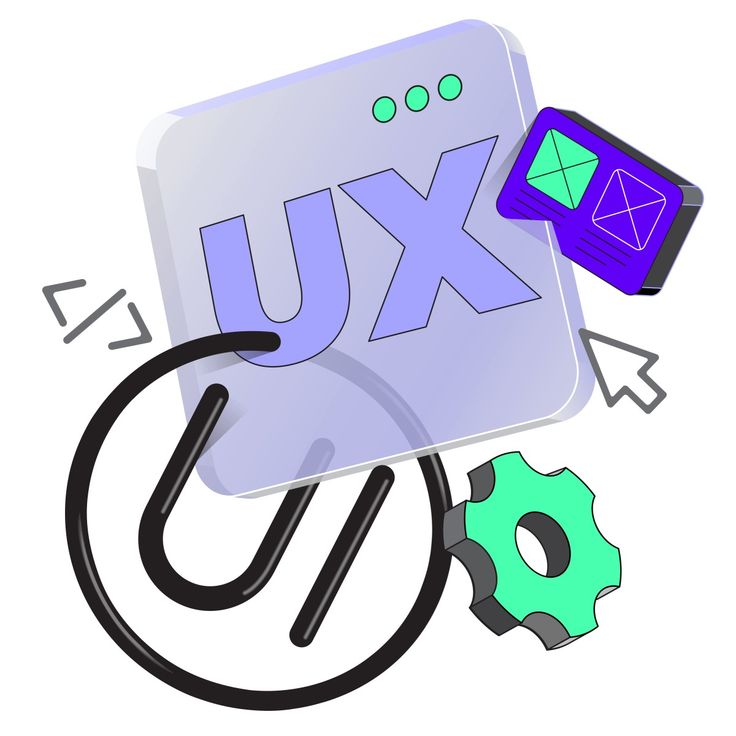
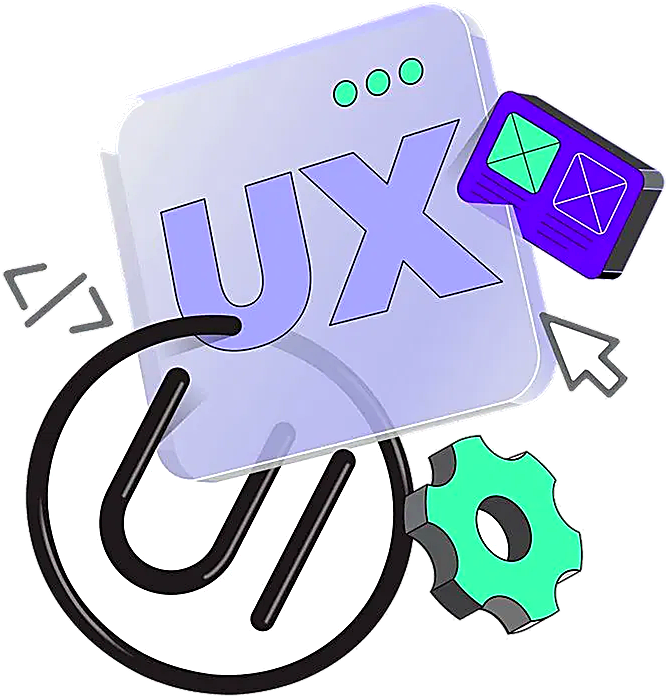
modefek
sistemdesignkrg

diff --git a/src/app/quiz/page.js b/src/app/quiz/page.js
@@ -1,6 +1,7 @@
 "use client";
 
 import React, { useState, useEffect, useRef, useCallback } from "react";
+import Image from "next/image";
 import Header from "../../components/Header";
 import Footer from "../../components/Footer";
 import PixelButton from "../../components/PixelButton";
@@ -11,11 +12,15 @@ import Link from "next/link";
 // Latar utama luar game (di belakang seluruh halaman/console GameBoy)
 const OUTER_BG = "/kuis/bg1.jpg";
 
+// Efek elemen serangan: Air (hero, kebaikan) vs Api (boss, kejahatan)
+const EFFECT_WATER = "/efek/air.gif"; // dipakai saat hero menyerang boss
+const EFFECT_FIRE = "/efek/api.gif"; // dipakai saat boss menyerang balik hero
+
 const STAGES = [
     {
         id: "design",
         name: "FIGMA FOREST",
-        icon: "🌳",
+        iconImg: "/kuis/uiux.png", // Logo UI/UX piksel asli menggantikan pohon 🌳
         bossName: "BAD UX GOBLIN",
         bossSprite: "👾",
         bgGif: "/kuis/bg2.jpg",
@@ -29,7 +34,7 @@ const STAGES = [
     {
         id: "frontend",
         name: "FRONTEND VALLEY",
-        icon: "💻",
+        iconImg: "/kuis/2.png", // Logo Frontend piksel asli menggantikan 💻
         bossName: "SYNTAX BUG DRAGON",
         bossSprite: "🐉",
         bgGif: "/kuis/bg3.jpg",
@@ -43,7 +48,7 @@ const STAGES = [
     {
         id: "backend",
         name: "BACKEND CASTLE",
-        icon: "🏰",
+        iconImg: "/kuis/3.png", // Logo Backend piksel asli menggantikan 🏰
         bossName: "SQL INJECTION DEMON",
         bossSprite: "👹",
         bgGif: "/kuis/bg4.jpg",
@@ -130,6 +135,7 @@ export default function GameBoyAdventureQuiz() {
     const getHeroLevel = (u) => (u?.skills?.length || 0) + (u?.semester || 1);
     const heroLevel = getHeroLevel(hero);
 
+    // Progress panggung murni turunan dari bossHp (single source of
     // truth), jadi tidak ada lagi 2 kondisi menang yang bisa saling tabrakan.
     const stageProgress = 100 - bossHp;
 
@@ -180,7 +186,7 @@ export default function GameBoyAdventureQuiz() {
         if (isCorrect) {
             sfx.playPowerUp();
             const damage = Math.ceil(100 / activeStage.questions.length);
-            setDialogueText(`💥 CRITICAL HIT! ${hero.name} dealt -${damage} DMG to ${activeStage.bossName}!`);
+            setDialogueText(`💧 SPLASH HIT! ${hero.name} doused ${activeStage.bossName} for -${damage} DMG!`);
 
             setTimeout(() => {
                 setIsPlayerAttacking(true);
@@ -229,7 +235,7 @@ export default function GameBoyAdventureQuiz() {
         } else {
             sfx.playPowerDown();
             const damage = 30;
-            setDialogueText(`🚨 MISSED! ${activeStage.bossName} dealt -${damage} DMG to ${hero.name}!`);
+            setDialogueText(`🔥 SCORCHED! ${activeStage.bossName} burned ${hero.name} for -${damage} DMG!`);
 
             setTimeout(() => {
                 setIsBossAttacking(true);
@@ -303,8 +309,17 @@ export default function GameBoyAdventureQuiz() {
         }
         .animate-sprite-pulse { animation: spritePulse 2.2s ease-in-out infinite; }
 
+        /* Efek elemen (air/api) "pop" masuk lalu menghilang, disinkron dengan
+           durasi lunge serangan (~500ms sebelum HP berkurang) */
+        @keyframes effectPop {
+          0% { transform: scale(0.3) rotate(-8deg); opacity: 0; }
+          35% { transform: scale(1.2) rotate(4deg); opacity: 1; }
+          100% { transform: scale(1) rotate(0deg); opacity: 0; }
+        }
+        .animate-effect-pop { animation: effectPop 0.55s ease-out forwards; }
+
         @media (prefers-reduced-motion: reduce) {
-          .animate-screen-shake, .animate-hp-flash, .animate-sprite-pulse {
+          .animate-screen-shake, .animate-hp-flash, .animate-sprite-pulse, .animate-effect-pop {
             animation: none !important;
           }
         }
@@ -419,7 +434,16 @@ export default function GameBoyAdventureQuiz() {
                                                 onClick={() => startStage(stg)}
                                                 className="bg-[#121b2d]/90 border-2 border-retro-black hover:border-yellow-400 p-4 rounded flex flex-col items-center gap-2 cursor-pointer transition-transform hover:-translate-y-1 shadow-md text-left"
                                             >
-                                                <span className="text-3xl animate-sprite-pulse">{stg.icon}</span>
+                                                {/* Logo tech piksel asli menggantikan emoji pohon/laptop/kastil */}
+                                                <div className="w-14 h-14 relative my-1 animate-sprite-pulse">
+                                                    <Image
+                                                        src={stg.iconImg}
+                                                        alt={stg.name}
+                                                        fill
+                                                        unoptimized
+                                                        className="object-contain drop-shadow-[2px_2px_0px_rgba(0,0,0,0.8)]"
+                                                    />
+                                                </div>
                                                 <span className="font-pixel text-[9px] text-yellow-300 font-bold text-center">{stg.name}</span>
                                                 <span className="font-sans text-[10px] text-gray-300 text-center">Boss: {stg.bossName}</span>
                                             </button>
@@ -436,7 +460,7 @@ export default function GameBoyAdventureQuiz() {
                                 </div>
                             )}
 
-                            {/* STAGE 3: PERTARUNGAN */}
+                            {/* STAGE 3: PERTARUNGAN — Air (hero) vs Api (boss jahat) */}
                             {gameState === "PLAYING_STAGE" && activeStage && (
                                 <div className="relative z-10 h-full flex flex-col justify-between">
 
@@ -451,28 +475,58 @@ export default function GameBoyAdventureQuiz() {
 
                                     {/* Visual Karakter Berjalan di Atas Rumput */}
                                     <div className="flex justify-between items-end px-6 sm:px-12 py-4">
-                                        {/* Hero Sprite */}
+                                        {/* Hero Sprite — kena efek Api (🔥) saat diserang boss */}
                                         <div className={`relative flex flex-col items-center transition-transform ${isPlayerAttacking ? "translate-x-10 scale-110" : "animate-sprite-pulse"}`}>
                                             <div className="w-16 h-16 relative drop-shadow-[2px_4px_0px_rgba(0,0,0,0.8)]">
                                                 <PixelAvatar role={hero.role} size="w-full h-full" />
+
+                                                {/* Angka damage melayang di atas hero */}
                                                 {floatingTexts.filter((f) => f.target === "player").map((f) => (
-                                                    <span key={f.id} className="absolute -top-2 left-1/2 -translate-x-1/2 font-pixel text-[10px] text-red-400 animate-float-damage pointer-events-none">
+                                                    <span key={f.id} className="absolute -top-2 left-1/2 -translate-x-1/2 font-pixel text-[10px] text-red-400 animate-float-damage pointer-events-none z-20">
                                                         {f.text}
                                                     </span>
                                                 ))}
+
+                                                {/* Efek Api 🔥 menerjang hero saat boss menyerang */}
+                                                {isBossAttacking && (
+                                                    <div className="absolute -inset-3 animate-effect-pop pointer-events-none z-10">
+                                                        <Image
+                                                            src={EFFECT_FIRE}
+                                                            alt="Fire attack effect"
+                                                            fill
+                                                            unoptimized
+                                                            className="object-contain"
+                                                        />
+                                                    </div>
+                                                )}
                                             </div>
                                             <span className="font-pixel text-[7px] bg-pixel-green text-retro-black px-1 font-bold">{hero.name}</span>
                                         </div>
 
-                                        {/* Boss Sprite */}
+                                        {/* Boss Sprite — kena efek Air (💧) saat hero menyerang */}
                                         <div className={`relative flex flex-col items-center transition-transform ${isBossAttacking ? "-translate-x-10 animate-screen-shake" : "animate-sprite-pulse"}`}>
-                                            <span className="text-5xl drop-shadow-[2px_4px_0px_rgba(0,0,0,0.8)] relative">
+                                            <span className="text-5xl drop-shadow-[2px_4px_0px_rgba(0,0,0,0.8)] relative inline-block w-16 h-16 leading-[4rem] text-center">
                                                 {activeStage.bossSprite}
+
+                                                {/* Angka damage melayang di atas boss */}
                                                 {floatingTexts.filter((f) => f.target === "boss").map((f) => (
-                                                    <span key={f.id} className="absolute -top-3 left-1/2 -translate-x-1/2 font-pixel text-[11px] text-yellow-300 animate-float-damage pointer-events-none">
+                                                    <span key={f.id} className="absolute -top-3 left-1/2 -translate-x-1/2 font-pixel text-[11px] text-yellow-300 animate-float-damage pointer-events-none z-20">
                                                         {f.text}
                                                     </span>
                                                 ))}
+
+                                                {/* Efek Air 💧 menerjang boss saat hero menyerang */}
+                                                {isPlayerAttacking && (
+                                                    <span className="absolute -inset-3 animate-effect-pop pointer-events-none z-10 block">
+                                                        <Image
+                                                            src={EFFECT_WATER}
+                                                            alt="Water attack effect"
+                                                            fill
+                                                            unoptimized
+                                                            className="object-contain"
+                                                        />
+                                                    </span>
+                                                )}
                                             </span>
                                             <span className="font-pixel text-[7px] bg-red-600 text-white px-1 font-bold">{activeStage.bossName}</span>
                                         </div>
